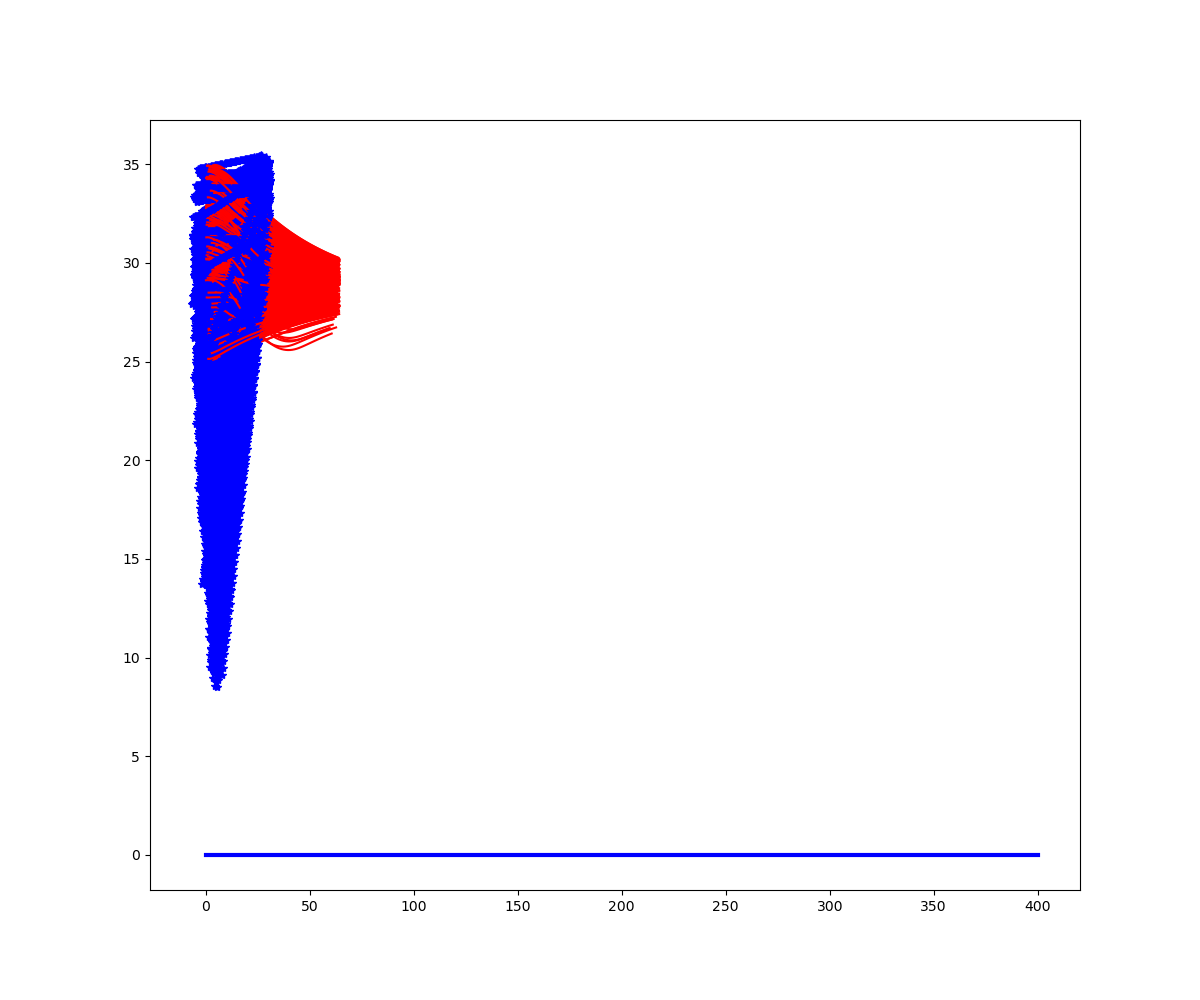
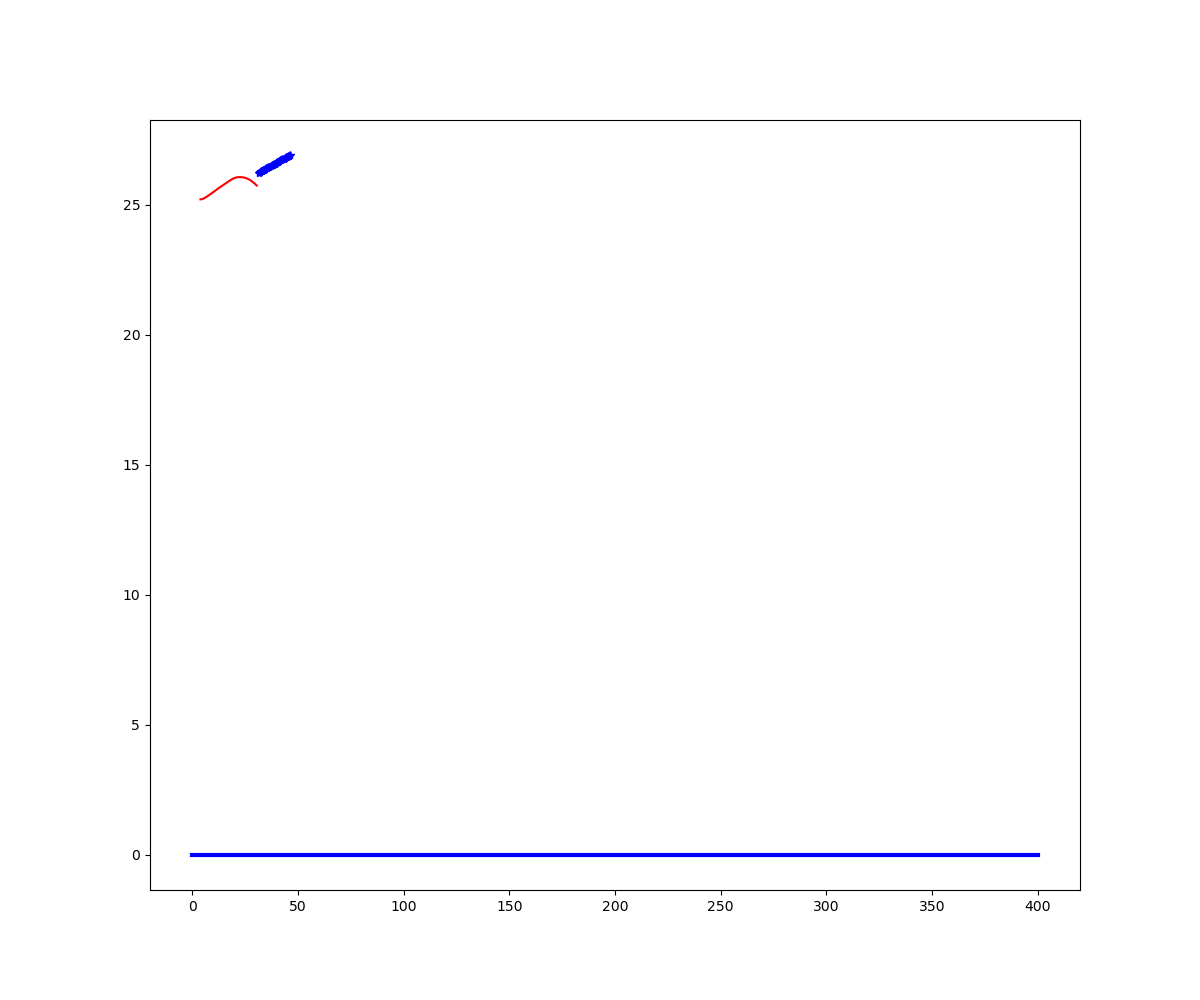
Modified spawn model in linear simulator

diff --git a/Fish_oneHz.py b/Fish_oneHz.py
@@ -41,7 +41,7 @@ OBSTACLE_SPAWN_Y_NOISE = 0.5
 OBSTACLE_SPAWN_VEL_X_NOISE = 0.001
 OBSTACLE_SPAWN_VEL_Y_NOISE = 0.001
 
-OBSTACLE_RADIUS = 1.5
+OBSTACLE_RADIUS = 10
 
 def truncate(A):
 
@@ -57,7 +57,7 @@ def truncate(A):
 
 class World:
 
-    def __init__(self, pos_x, pos_y, heading, episode_length, obs_pos_x, obs_pos_y, obs_vel_x, obs_vel_y):
+    def __init__(self, pos_x, pos_y, heading, episode_length, distance, obs_vel):
 
         model = sio.loadmat('model_oneHz.mat')
 
@@ -82,17 +82,15 @@ class World:
         self.init_pos_x = pos_x
         self.init_pos_y = pos_y
 
-        self.obs_pos_x = obs_pos_x
-        self.obs_pos_y = obs_pos_y
-        self.obs_vel_x = obs_vel_x
-        self.obs_vel_y = obs_vel_y
+        self.distance_low = distance[0]
+        self.distance_high = distance[1]
+        self.obs_vel = obs_vel
 
-        self.init_obs_pos_x_low = obs_pos_x[0]
-        self.init_obs_pos_x_high = obs_pos_x[1]
-        self.init_obs_pos_y_low = obs_pos_y[0]
-        self.init_obs_pos_y_high = obs_pos_y[1]
-        self.init_obs_vel_x = obs_vel_x
-        self.init_obs_vel_y = obs_vel_y
+        # self.init_obs_pos_x_low = obs_pos_x[0]
+        # self.init_obs_pos_x_high = obs_pos_x[1]
+        # self.init_obs_pos_y_low = obs_pos_y[0]
+        # self.init_obs_pos_y_high = obs_pos_y[1]
+        self.init_obs_vel = obs_vel
 
         # step parameters
         self.cur_step = 0
@@ -109,8 +107,8 @@ class World:
 
         self.allXObs = []
         self.allYObs = []
-        self.allXObs.append(self.obs_pos_x)
-        self.allYObs.append(self.obs_pos_y)
+        # self.allXObs.append(self.obs_pos_x)
+        # self.allYObs.append(self.obs_pos_y)
 
 
         # parameters needed for consistency with gym environments
@@ -136,12 +134,17 @@ class World:
         self.pos_y = np.random.uniform(self.pos_y_low, self.pos_y_high)
         self.heading = np.random.uniform(self.heading_low, self.heading_high)
 
-        init_obs_pos_x = np.random.uniform(self.init_obs_pos_x_low, self.init_obs_pos_x_high)
-        init_obs_pos_y = np.random.uniform(self.init_obs_pos_y_low, self.init_obs_pos_y_high)
-        heading = np.random.uniform(0, np.pi/4)
-        init_obs_vel_x = self.init_obs_vel_x * np.cos(heading)
-        init_obs_vel_y = self.init_obs_vel_x * np.sin(heading)
+        distance = np.random.uniform(self.distance_low, self.distance_high)
+        init_obs_pos_x = self.pos_x + distance * np.cos(self.heading)
+        init_obs_pos_y = self.pos_y + distance * np.sin(self.heading)
+        init_obs_vel_x = -self.init_obs_vel * np.cos(self.heading)
+        init_obs_vel_y = -self.init_obs_vel * np.sin(self.heading)
 
+        # init_obs_pos_x = np.random.uniform(self.init_obs_pos_x_low, self.init_obs_pos_x_high)
+        # init_obs_pos_y = np.random.uniform(self.init_obs_pos_y_low, self.init_obs_pos_y_high)
+        # heading = np.random.uniform(0, np.pi/4)
+        # init_obs_vel_x = self.init_obs_vel_x * np.cos(heading)
+        # init_obs_vel_y = self.init_obs_vel_x * np.sin(heading)
 
         self.obs_pos_x = init_obs_pos_x + (2 * (np.random.random() - 0.5) * OBSTACLE_SPAWN_X_NOISE)
         self.obs_pos_y = init_obs_pos_y + (2 * (np.random.random() - 0.5) * OBSTACLE_SPAWN_Y_NOISE)

diff --git a/plotTrajectories.py b/plotTrajectories.py
@@ -111,20 +111,19 @@ def main(argv):
 
     y_pos = [25, 35]
     heading = [math.radians(-10), math.radians(10)]
-    episode_length = 60
+    episode_length = 130
 
-    obs_pos_x = [25, 30]
-    obs_pos_y = [30, 35]
-    obs_vel_x = -0.514
-    obs_vel_y = 0
+    # obs_pos_x = [25, 30]
+    # obs_pos_y = [30, 35]
+    distance = [20, 50]
+    obs_vel = 0.514
 
     parameters = {'y_pos': y_pos, 
                   'heading': heading,
                   'episode_length': episode_length,
-                  'obs pos x': obs_pos_x,
-                  'obs pos y': obs_pos_y,
-                  'obs vel': obs_vel_x,
-                  'obstacle radius': 1.5
+                  'distance': distance,
+                  'obs vel': obs_vel,
+                  'obstacle radius': 1.0
                   }
 
     with open('parameters_2.pickle', 'wb') as handle:
@@ -133,7 +132,7 @@ def main(argv):
     # with open('parameters.pickle', 'rb') as handle:
     #     b = pickle.load(handle)
     
-    env = World(0.0, y_pos, heading, episode_length, obs_pos_x, obs_pos_y, obs_vel_x, obs_vel_y)
+    env = World(0.0, y_pos, heading, episode_length, distance, obs_vel)
 
     # set seeds
     np.random.seed(10)
@@ -154,7 +153,7 @@ def main(argv):
     allXObs = []
     allYObs = []
 
-    numTrajectories = 1000
+    numTrajectories = 1
     collisions = []
     fails = []
 
